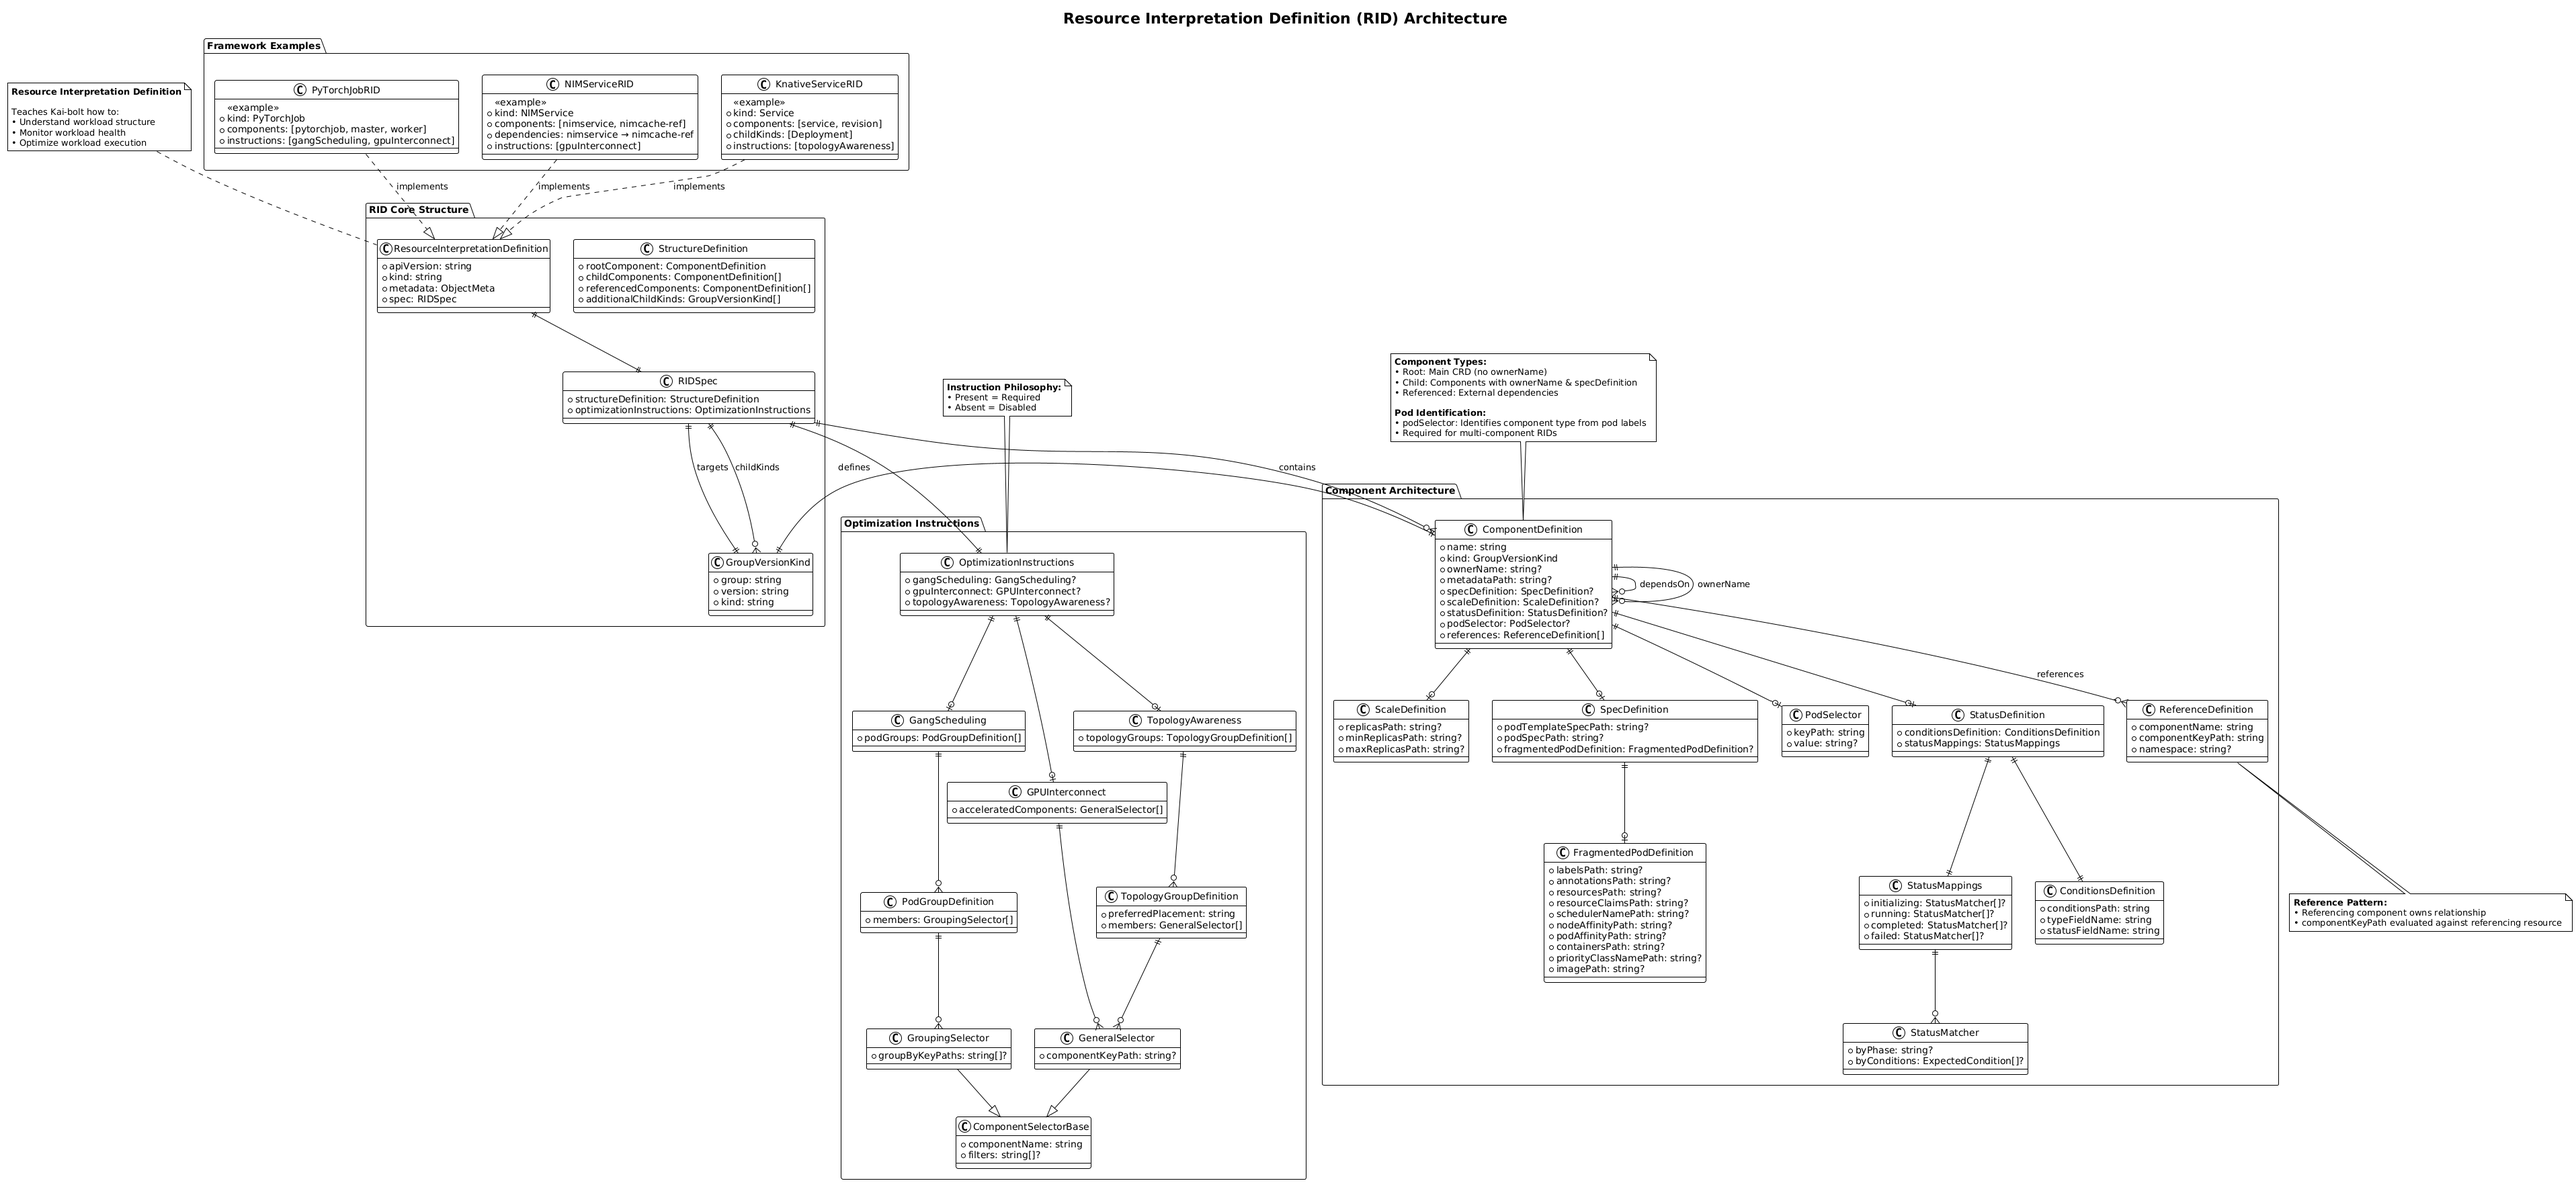
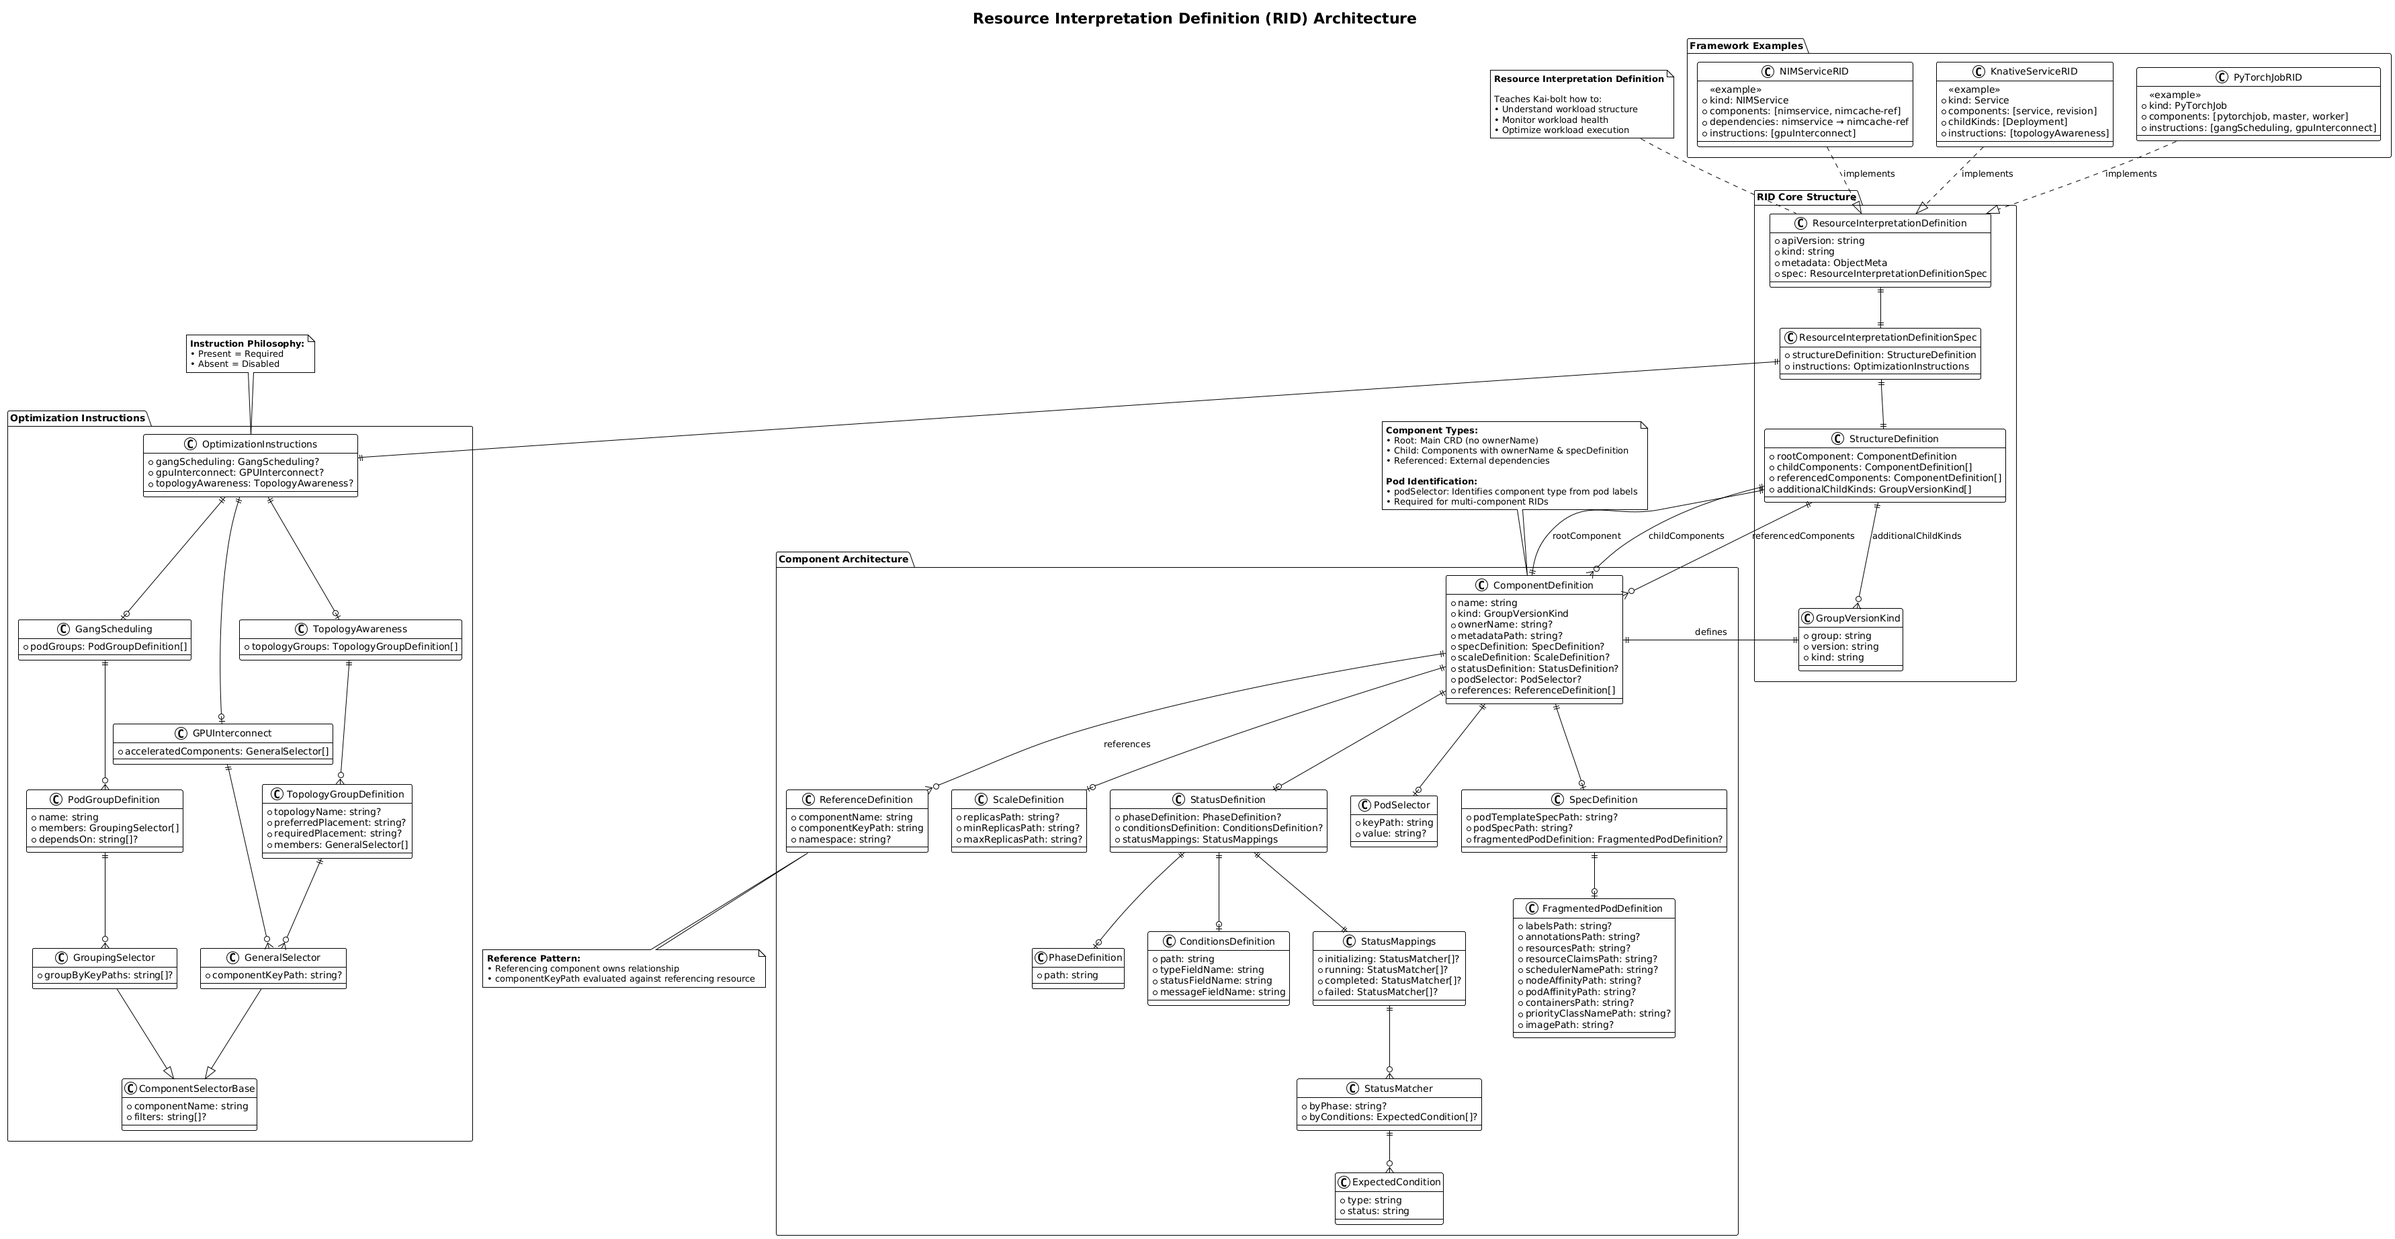
gang related

diff --git a/pkg/api/v1alpha1/instructions/gang.go b/pkg/api/v1alpha1/instructions/gang.go
@@ -5,6 +5,7 @@ type GangScheduling struct {
 }
 
 type PodGroupDefinition struct {
+	Name      string             `json:"name"`                // the name of the pod group
 	Members   []GroupingSelector `json:"members"`             // the members of the pod group by components
 	DependsOn []string           `json:"dependsOn,omitempty"` // group names that the current group depends on for scheduling purposes
 }
